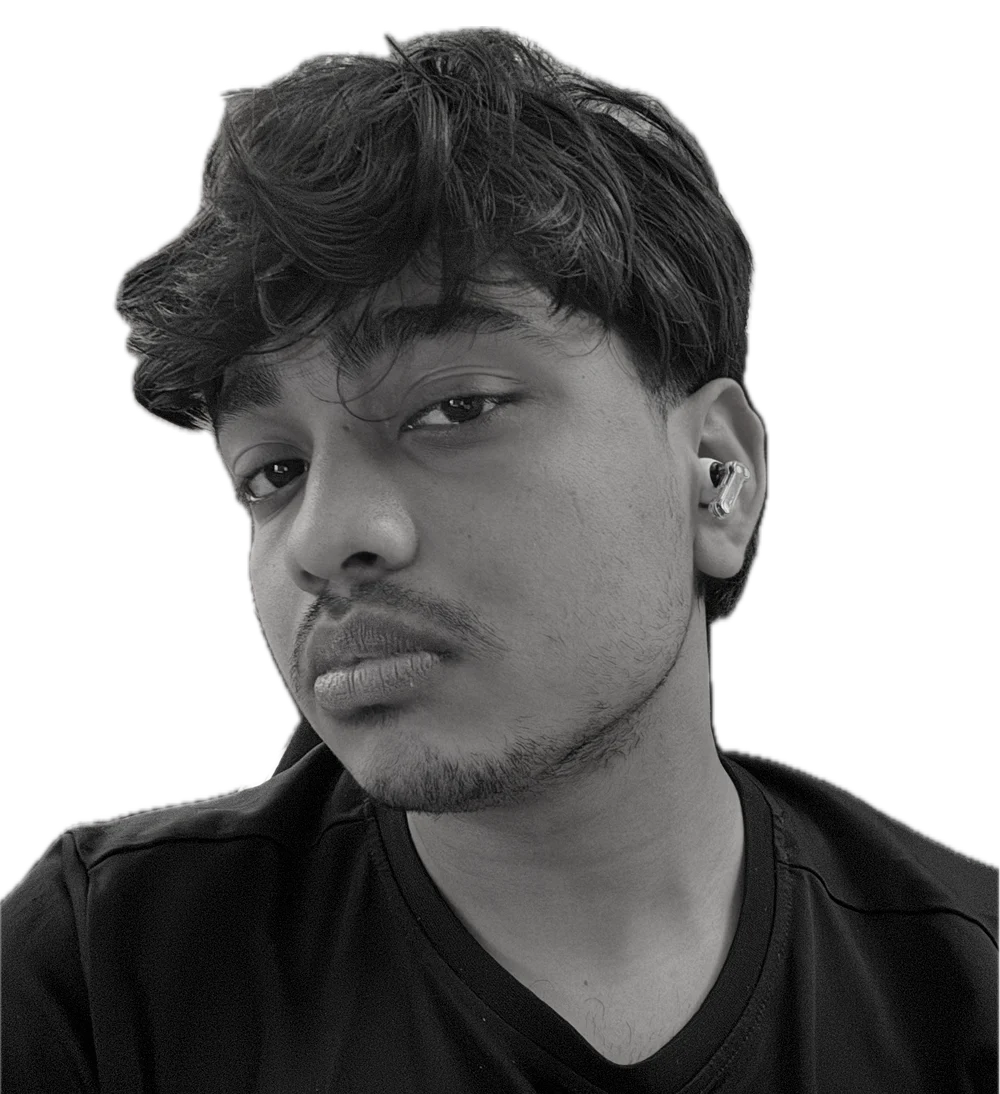
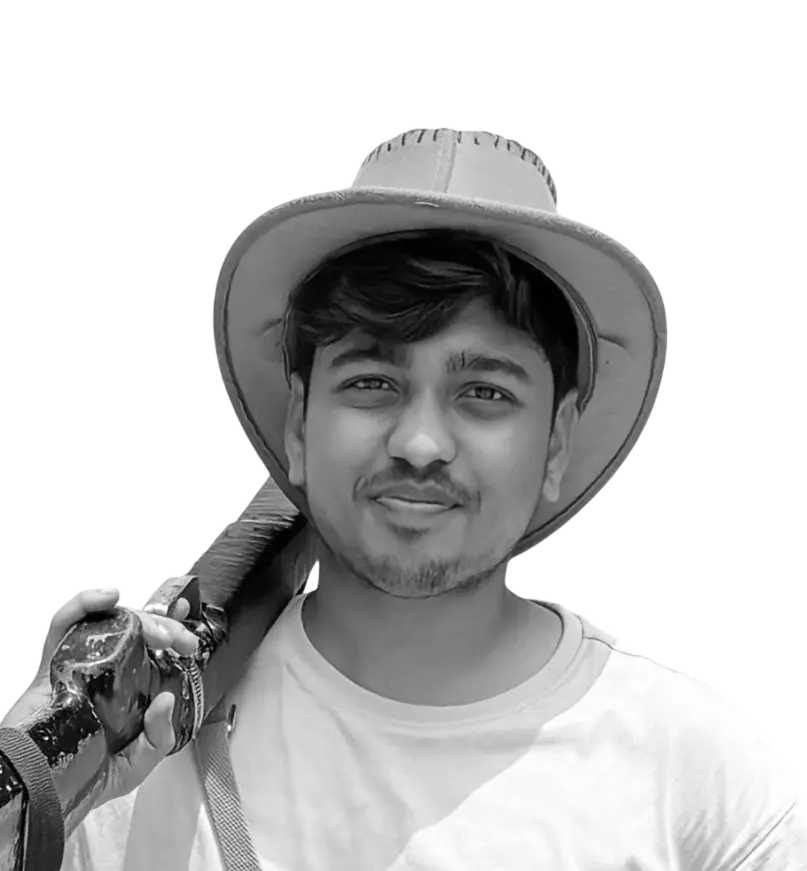
update: change hero img

diff --git a/src/app/api/projects/[id]/comments/route.ts b/src/app/api/projects/[id]/comments/route.ts
@@ -5,9 +5,15 @@ type Comment = { id: string; text: string; ts: number };
 export async function GET(_req: Request, ctx: { params: Promise<{ id: string }> }) {
   const { id } = await ctx.params;
   const raw = await redis.lrange(`sumanv4:project:${id}:comments`, 0, 49);
-  const comments: Comment[] = raw.map((c: unknown) =>
-    typeof c === "string" ? JSON.parse(c) : (c as Comment)
-  );
+  const comments: Comment[] = raw.flatMap((c: unknown) => {
+    if (typeof c !== "string") return [c as Comment];
+    if (!c) return [];
+    try {
+      return [JSON.parse(c)];
+    } catch {
+      return [];
+    }
+  });
   return Response.json({ comments });
 }
 

diff --git a/src/app/api/reactions/route.ts b/src/app/api/reactions/route.ts
@@ -16,9 +16,15 @@ export async function GET() {
   PROJECT_IDS.forEach((id, i) => {
     const likes = (results[i * 2] as number | null) ?? 0;
     const rawComments = (results[i * 2 + 1] as unknown[]) ?? [];
-    const comments: Comment[] = rawComments.map((c) =>
-      typeof c === "string" ? JSON.parse(c) : (c as Comment)
-    );
+    const comments: Comment[] = rawComments.flatMap((c) => {
+      if (typeof c !== "string") return [c as Comment];
+      if (!c) return [];
+      try {
+        return [JSON.parse(c)];
+      } catch {
+        return [];
+      }
+    });
     data[id] = { likes, comments };
   });
 
